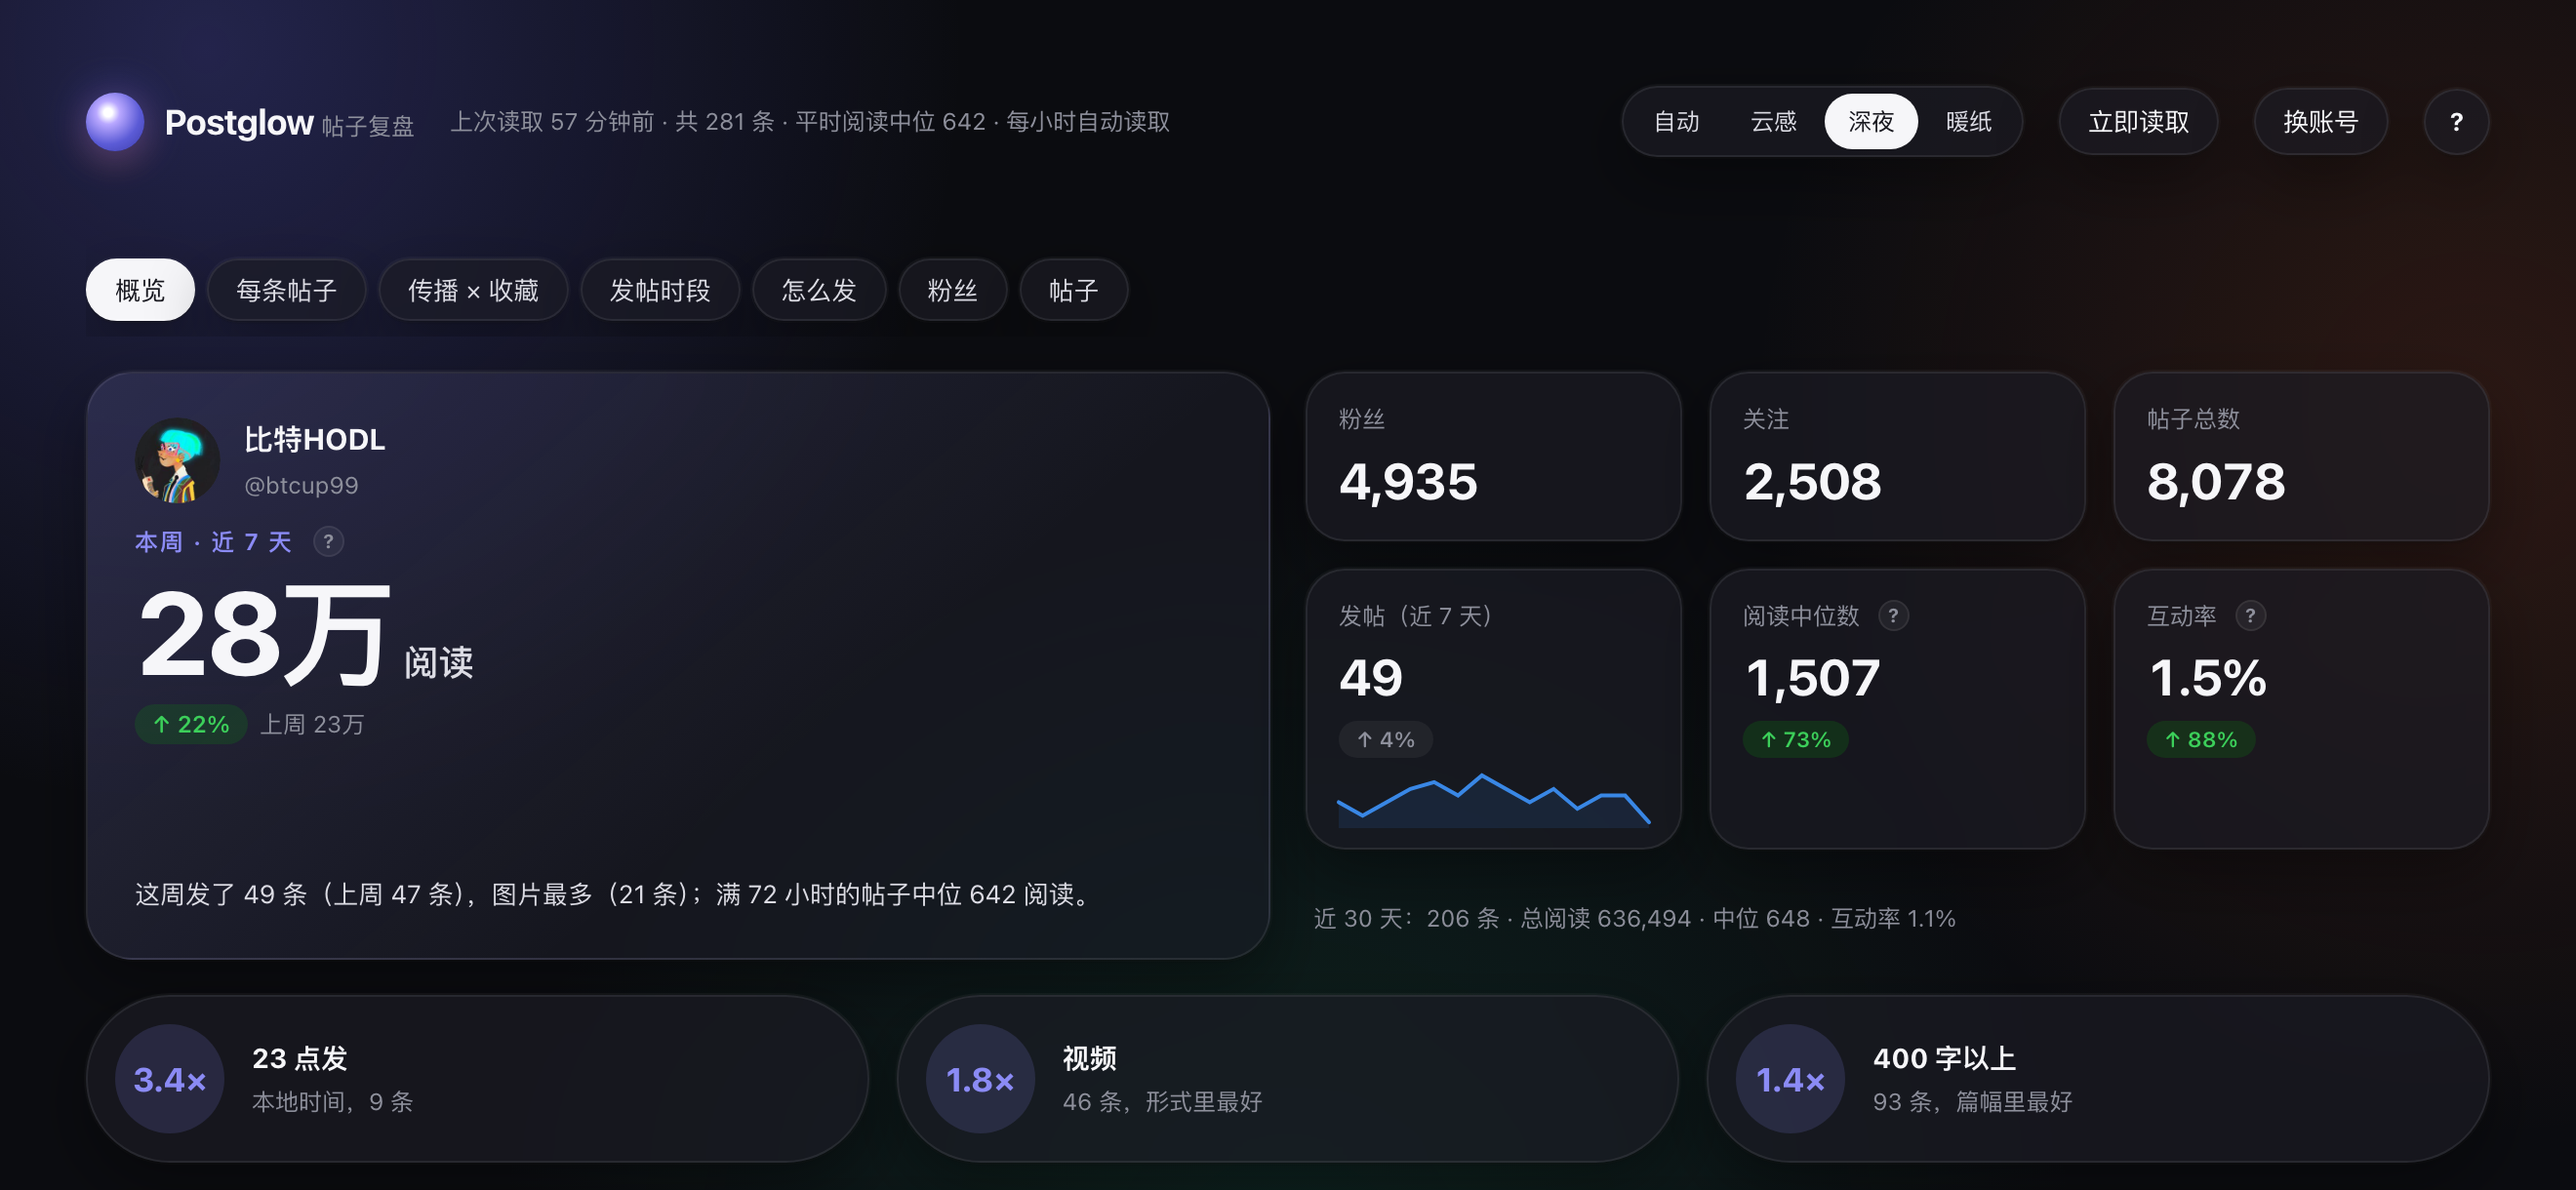
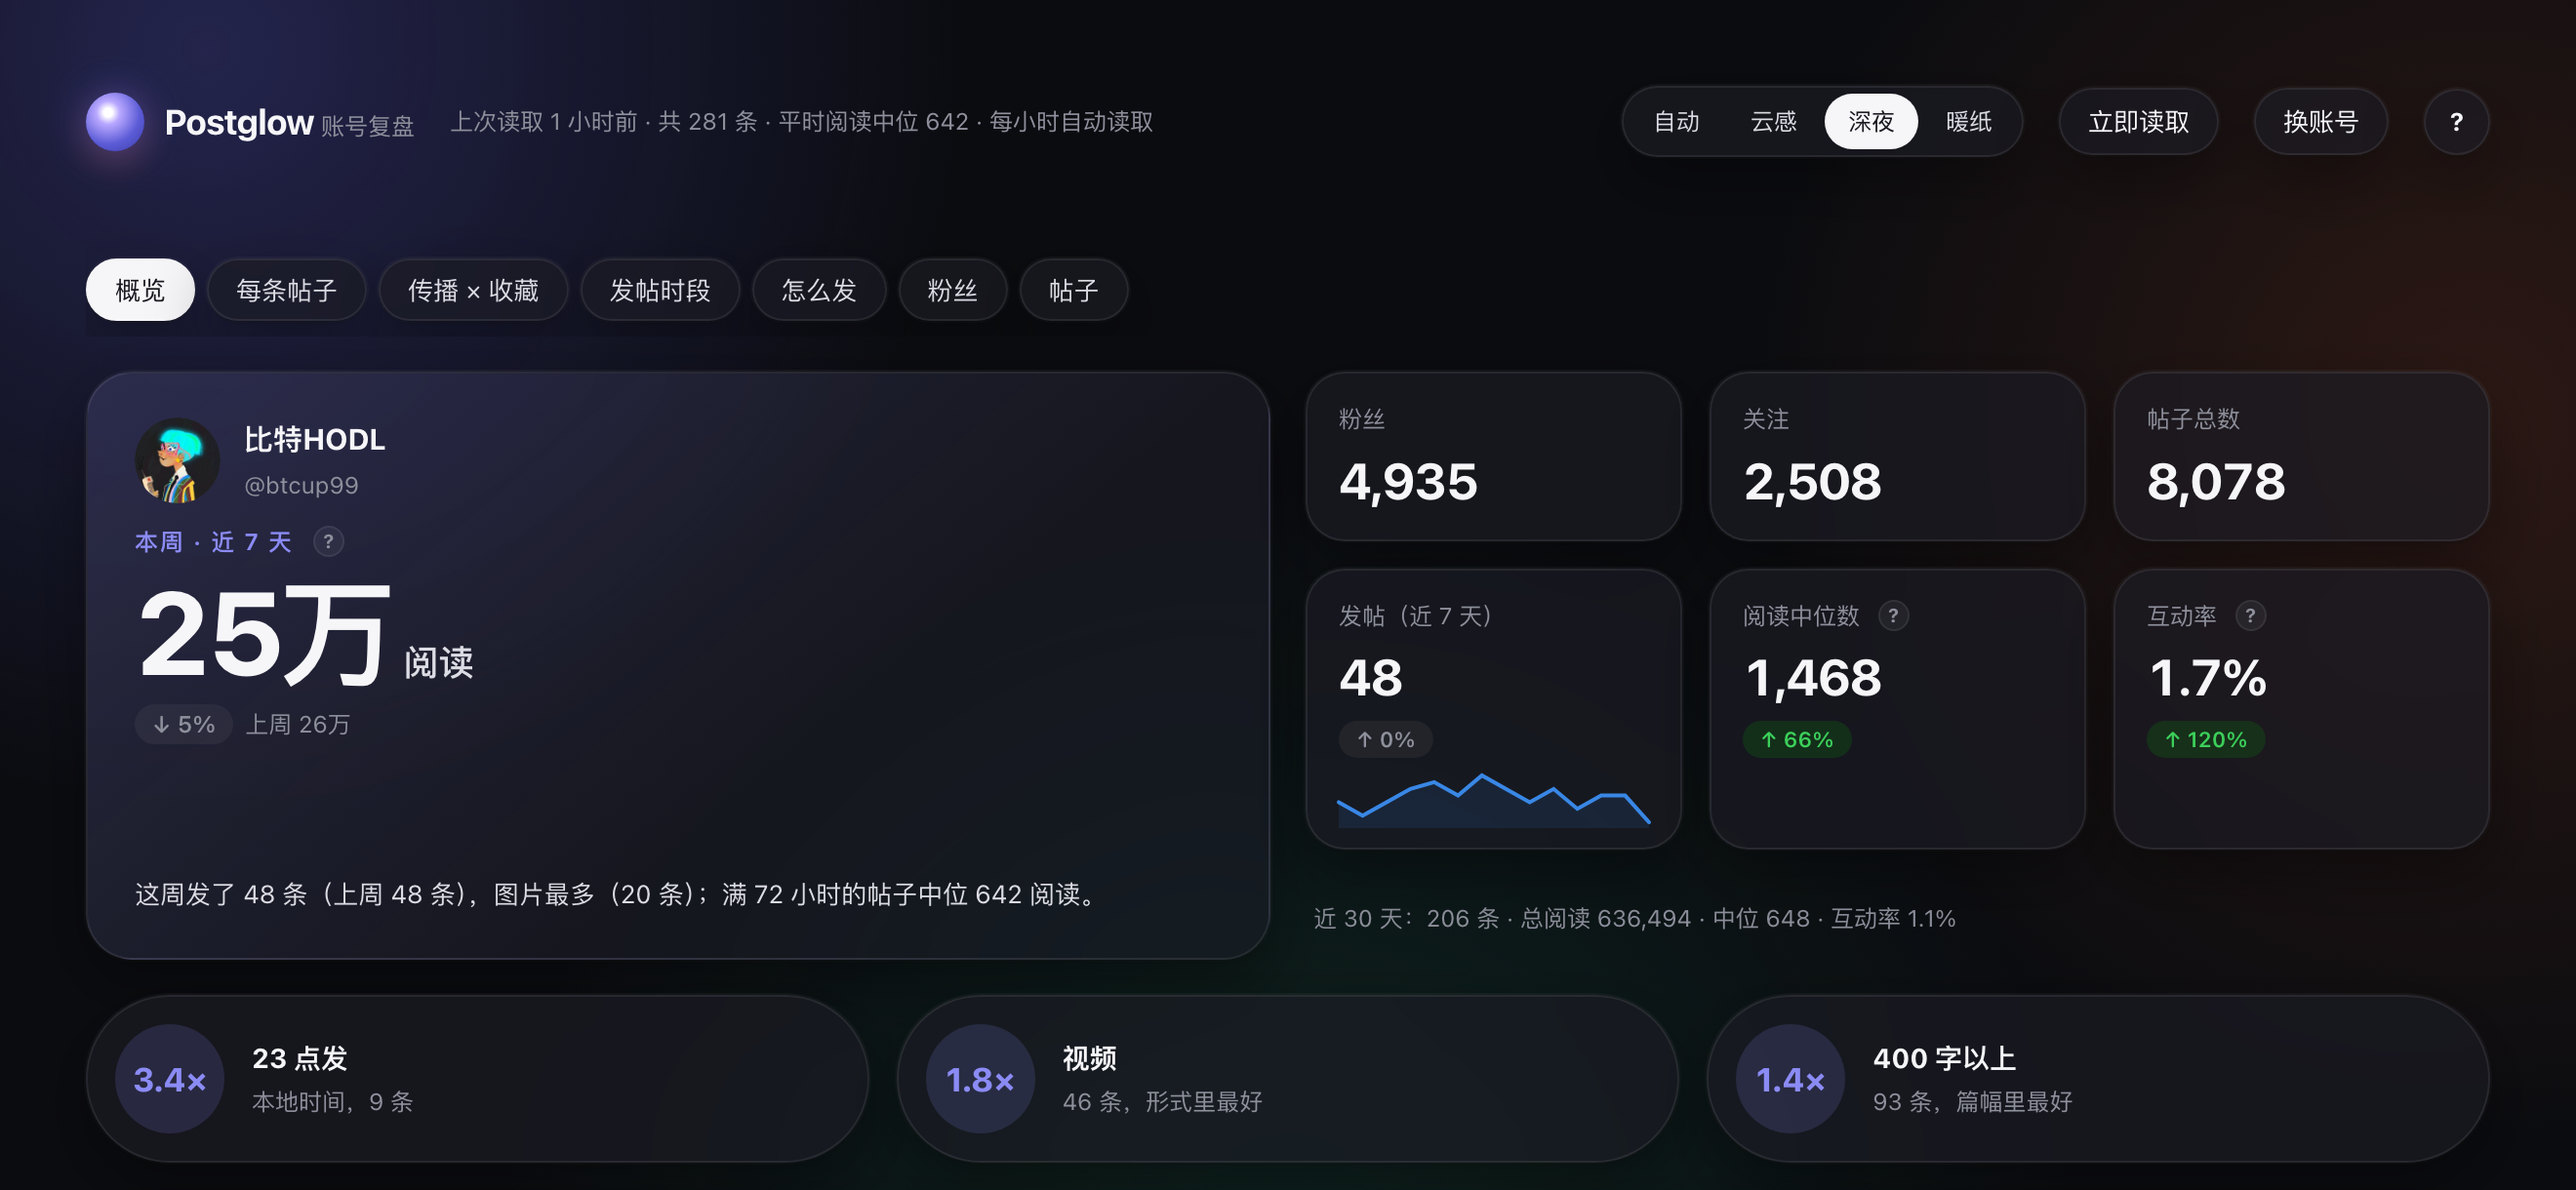
Chinese name: 帖子复盘 → 账号复盘
Window title, welcome page, header, bundle description, README and its
overview screenshots. Postglow, the bundle id, data folder and repo stay.

diff --git a/src/index.html b/src/index.html
@@ -3,7 +3,7 @@
 <head>
   <meta charset="utf-8">
   <meta name="viewport" content="width=device-width, initial-scale=1">
-  <title>Postglow · 帖子复盘</title>
+  <title>Postglow · 账号复盘</title>
   <link rel="stylesheet" href="styles.css">
 </head>
 <body>
@@ -13,7 +13,7 @@
     <section class="card">
       <div class="brand-orb orb" aria-hidden="true"></div>
       <h1 id="welcomeTitle">Postglow</h1>
-      <p>帖子复盘：哪些帖子被看、什么时候发更好、粉丝怎么涨。</p>
+      <p>账号复盘：哪些帖子被看、什么时候发更好、粉丝怎么涨。</p>
       <form id="welcomeForm">
         <input id="handleInput" name="handle" autocomplete="off" spellcheck="false" placeholder="@你的 X 用户名" aria-label="X 用户名" required>
         <button class="btn primary" type="submit">开始</button>
@@ -28,7 +28,7 @@
 
   <div id="app" class="wrap" hidden>
     <header class="top" data-tauri-drag-region>
-      <div class="brand"><span class="brand-orb" aria-hidden="true"></span><div><b>Postglow</b> <span>帖子复盘</span></div></div>
+      <div class="brand"><span class="brand-orb" aria-hidden="true"></span><div><b>Postglow</b> <span>账号复盘</span></div></div>
       <span id="meta" class="meta"></span>
       <span class="spacer"></span>
       <div class="seg" role="group" aria-label="风格">

diff --git a/README.md b/README.md
@@ -2,7 +2,7 @@
 
 <img src="app-icon.png" width="112" alt="Postglow">
 
-# Postglow · 帖子复盘
+# Postglow · 账号复盘
 
 **一个轻量的 Mac 小工具：每小时读一次你的 X 帖子，在本地告诉你<br>哪些帖子被看、什么时候发更好、粉丝是怎么涨的。**
 

diff --git a/CHANGELOG.md b/CHANGELOG.md
@@ -4,6 +4,7 @@
 
 ## 未发布
 
+- 中文名由「帖子复盘」改为「账号复盘」。
 ## 0.1.7 — 2026-11-04
 
 - 修复：「每条帖子」图里的「平时」标签会被气泡压住，现在带底色描边、始终看得清。
